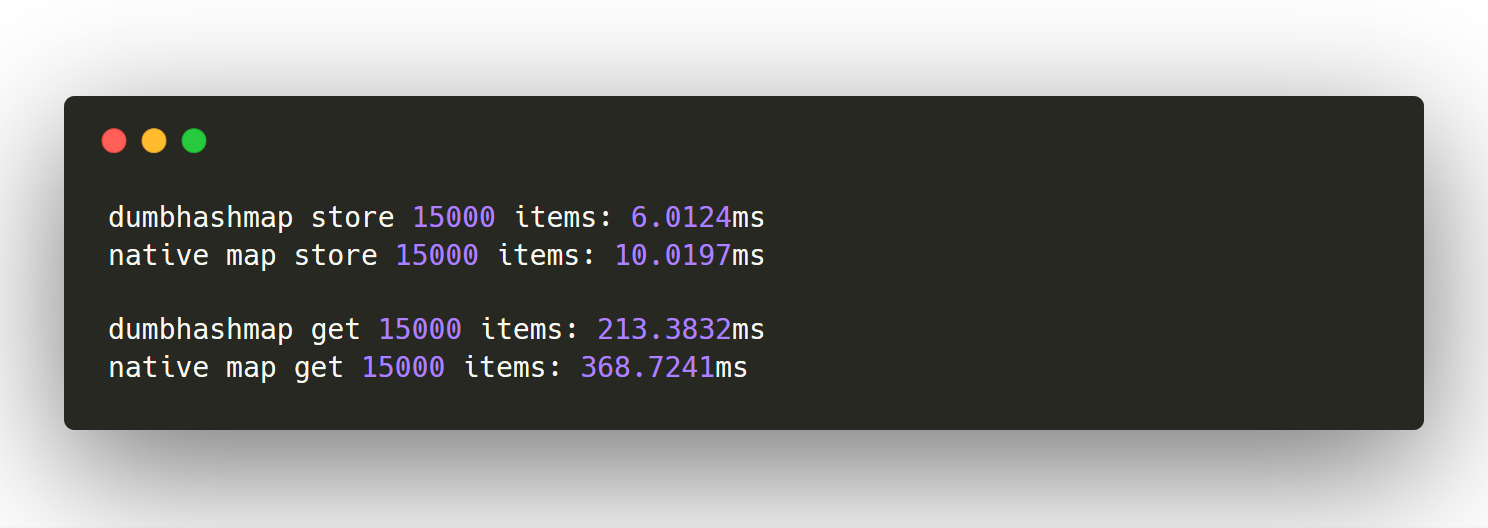
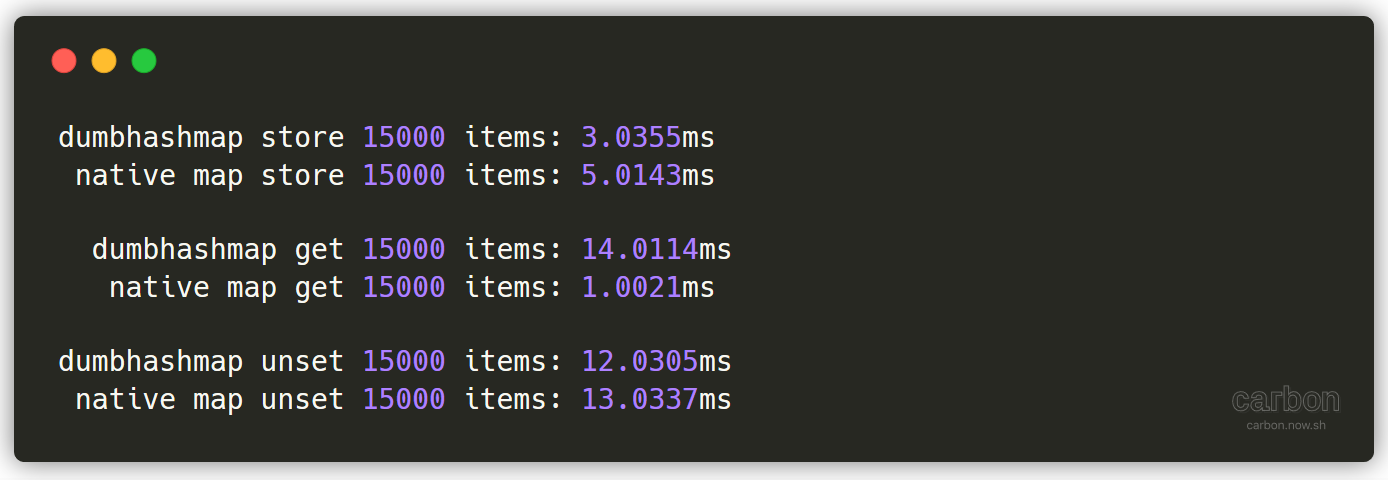
add Unset + benchmarks, updated README.md

diff --git a/dumbhashmap/dumbhashmap.go b/dumbhashmap/dumbhashmap.go
@@ -15,14 +15,14 @@ type bucket struct {
 	entries [][]interface{}
 }
 
-// dumbhashmap : a basic implementation of Go's builtin hashmap
-type dumbhashmap struct {
+// Dumbhashmap : a basic implementation of Go's builtin hashmap
+type Dumbhashmap struct {
 	buckets []bucket
 }
 
-// New : create a new dumbhashmap
-func New() (h *dumbhashmap) {
-	return &dumbhashmap{make([]bucket, bucketCnt)}
+// New : create a new Dumbhashmap
+func New() (h *Dumbhashmap) {
+	return &Dumbhashmap{make([]bucket, bucketCnt)}
 }
 
 func hash(key string) uint32 {
@@ -41,7 +41,7 @@ func hash(key string) uint32 {
 }
 
 // Get : retrieve the value stored for a given key.
-func (h dumbhashmap) Get(key string) interface{} {
+func (h Dumbhashmap) Get(key string) interface{} {
 	b := h.buckets[hash(key)]
 	if len(b.entries) == 0 {
 		return nil
@@ -57,12 +57,24 @@ func (h dumbhashmap) Get(key string) interface{} {
 }
 
 // Set : set a value for the given key
-func (h dumbhashmap) Set(key string, value interface{}) {
+func (h Dumbhashmap) Set(key string, value interface{}) {
 	b := &h.buckets[hash(key)]
 	b.entries = append(b.entries, []interface{}{key, value})
 }
 
-func (h dumbhashmap) String() string {
+// Unset : unset any stored value for the given key
+func (h Dumbhashmap) Unset(key string) (ok bool) {
+	b := &h.buckets[hash(key)]
+	for i, e := range b.entries {
+		if e[0] == key {
+			ok = true
+			b.entries = append(b.entries[:i], b.entries[i+1:]...)
+		}
+	}
+	return ok
+}
+
+func (h Dumbhashmap) String() string {
 	var strValue = ""
 	for i, b := range h.buckets {
 		strValue += fmt.Sprintf("%v{", i)
@@ -73,7 +85,7 @@ func (h dumbhashmap) String() string {
 	}
 
 	if strValue == "" {
-		return "<empty dumbhashmap>"
+		return "<empty Dumbhashmap>"
 	}
 	return strValue
 }

diff --git a/main.go b/main.go
@@ -13,35 +13,54 @@ const (
 )
 
 func main() {
+	benchmark()
+}
+
+func benchmark() {
 	keys := make([]string, load)
 	for i := 0; i < load; i++ {
 		keys[i] = randstr.Get(6)
 	}
 
+	/* ---------- Set ---------- */
 	step := time.Now()
 	dh := dumbhashmap.New()
 	for i := 0; i < load; i++ {
-		dh.Set(keys[i], randstr.Get(6))
+		dh.Set(keys[i], keys[i])
 	}
 	fmt.Printf("dumbhashmap store %v items: %v\n", load, time.Since(step))
 
 	step = time.Now()
-	h := make(map[string]string)
+	m := make(map[string]string)
 	for i := 0; i < load; i++ {
-		h[keys[i]] = randstr.Get(6)
+		m[keys[i]] = keys[i]
 	}
-	fmt.Printf("native map store %v items: %v\n\n", load, time.Since(step))
+	fmt.Printf(" native map store %v items: %v\n\n", load, time.Since(step))
 
-	foo := ""
+	/* ---------- Get ---------- */
+	var foo string
 	step = time.Now()
 	for i := 0; i < load; i++ {
-		foo += dh.Get(keys[i]).(string)
+		foo = dh.Get(keys[i]).(string)
 	}
-	fmt.Printf("dumbhashmap get %v items: %v\n", load, time.Since(step))
+	fmt.Printf("  dumbhashmap get %v items: %v\n", load, time.Since(step))
 
 	step = time.Now()
 	for i := 0; i < load; i++ {
-		foo += h[keys[i]]
+		foo = m[keys[i]]
 	}
-	fmt.Printf("native map get %v items: %v\n", load, time.Since(step))
+	fmt.Printf("   native map get %v items: %v\n\n", load, time.Since(step))
+	_ = foo
+
+	/* --------- Unset --------- */
+	step = time.Now()
+	for i := 0; i < load; i++ {
+		dh.Unset(keys[i])
+	}
+	fmt.Printf("dumbhashmap unset %v items: %v\n", load, time.Since(step))
+
+	for i := 0; i < load; i++ {
+		delete(m, keys[i])
+	}
+	fmt.Printf(" native map unset %v items: %v\n", load, time.Since(step))
 }

diff --git a/README.md b/README.md
@@ -2,14 +2,37 @@
 
 This is a very barebones implementation of a hashmap in Go.
 
-The main package runs a basic benchmark of dumbhashmap vs. Go's native hashmap (map) using the provided load constant.
+The main package runs a basic benchmark of dumbhashmap vs. Go's native hashmap ([map](https://golang.org/src/runtime/hashmap.go)) using the provided load constant.
 
-dumbhashmap uses a fixed set of 256 buckets for object storage, and falls back to linear list iteration for hash collisions. It uses the hashing algorithm from [string-hash](https://www.npmjs.com/package/string-hash), which is a slightly modified version of `dbj2` by Dan Bernstein ([link](http://www.cse.yorku.ca/%7Eoz/hash.html)). It does not support any form of resizing, and currently only implements `Get` and `Set`, with no ability to delete items. Overwritten key-value pairs remain in their original buckets.
+dumbhashmap uses a fixed set of 256 buckets for object storage, and falls back to linear list iteration for hash collisions. It uses the hashing algorithm from [string-hash](https://www.npmjs.com/package/string-hash), which is a slightly modified version of `dbj2` by Dan Bernstein ([link](http://www.cse.yorku.ca/%7Eoz/hash.html)). It does not support any form of resizing, and currently only implements `Get`, `Set`, and `Unset`. Overwritten key-value pairs remain in their original buckets.
 
-Preliminary testing has led to some... interesting results.
+### Benchmark
 
 ![benchmark_1](img/15000.png)
 
 ![benchmark_2](img/150000.png)
 
-It appears that this very basic, non-optimized implementation is consistently out-performing the native implementation, at reads and writes. Further testing to come.
+As one would expect, `dumbhashmap` outperforms native `map` on Set operations, since it has much less overhead without having to account for resizing, shuffling, rehashing, etc. However, it is _massively_ outclassed on Get operations on large datasets.
+
+### Performance
+
+Proper hashmap implementations will perform at O(1), tending toward O(n) as _load factor_ increases.
+
+[Load factor](https://en.wikipedia.org/wiki/Hash_table#Key_statistics) is defined as
+
+```
+n / k
+```
+
+where
+
+```
+n = number of entries in table
+k = number of buckets
+```
+
+In a fixed length hashmap like `dumbhashmap`, load factor becomes a major drawback in large data sets, as n is very high while k is fixed. Proper implementations, like Go's native `map`, will dynamically resize to accomodate larger datasets any time a threshold average load factor is reached.
+
+When storing a key-value pair, a hashmap will calculate a hash to find the corresponding bucket. It is possible that multiple distinct keys will produce the same hash, called a [hash collision](https://en.wikipedia.org/wiki/Hash_table#Collision_resolution). To allow for this possibility, the hashmap stores key-value pairs indirectly in buckets instead of directly in the core array. This requires some secondary form of search algorithm to find the correct value in a Get operation if it is not the only pair in the bucket.
+
+`dumbhashmap` falls back on linear array search for bucket searching, while `map` uses a further map-like structure, electing to use the lower-order bits of the key hash for the core array index and a portion of the higher-order bits to distinguish pairs in a bucket ([reference](https://golang.org/src/runtime/hashmap.go#L9)). Linear array search is O(n), while map search is O(1), which gives `map` a further edge.
